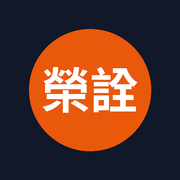
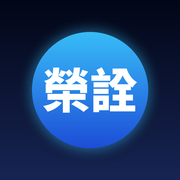
換配色、連新資料庫

diff --git a/style.css b/style.css
@@ -5,8 +5,8 @@
   --text: #1f2937;
   --muted: #6b7280;
   --border: #e5e7eb;
-  --accent: #ea580c;
-  --accent-dark: #c2410c;
+  --accent: #2563eb;
+  --accent-dark: #1d4ed8;
   --dark: #111827;
   --radius: 12px;
 }
@@ -266,8 +266,8 @@ details.owner-edit .form-grid { margin-top: 10px; }
   --text: #111827;        /* 主要文字：接近黑色 */
   --muted: #374151;       /* 次要文字：從淺灰改成深灰 */
   --border: #d1d5db;      /* 分隔線加深 */
-  --accent: #c2410c;      /* 橘色加深，按鈕上的白字更清楚 */
-  --accent-dark: #9a3412;
+  --accent: #1d4ed8;      /* 老闆版：電光藍，白字一樣清楚 */
+  --accent-dark: #1e3a8a;
 }
 body { font-size: 16px; }
 
@@ -295,7 +295,7 @@ input::placeholder { color: #6b7280; }
 
 /* 上方標題列和預留區 */
 .user { color: #f3f4f6; }
-.topbar .brand span { color: #fb923c; }   /* 深色底上用亮一點的橘 */
+.topbar .brand span { color: #38bdf8; }   /* 老闆版：深色底上的亮藍 */
 .placeholder { color: #4b5563; border-color: #9ca3af; }
 
 /* 左上角店名：按了回到主頁面 */
@@ -304,7 +304,7 @@ a.brand:hover { opacity: 0.85; }
 
 /* ===== 車輛總覽：可以點的統計格、明細 ===== */
 .stat.clickable { cursor: pointer; transition: border-color 0.15s, background 0.15s; }
-.stat.clickable:hover { border-color: var(--accent); background: #fff7ed; }
+.stat.clickable:hover { border-color: var(--accent); background: #eff6ff; }
 label.inline { flex-direction: row; align-items: center; gap: 8px; }
 label.inline input { width: auto; }
 #revenueSection, #orderSection, #bikeSection { scroll-margin-top: 16px; }
@@ -380,7 +380,7 @@ body.busy .btn, body.busy .btn-small { opacity: 0.6; pointer-events: none; }   /
   --shadow-sm: 0 1px 2px rgba(15, 23, 42, 0.06), 0 1px 3px rgba(15, 23, 42, 0.10);
   --shadow-md: 0 4px 12px rgba(15, 23, 42, 0.08), 0 2px 4px rgba(15, 23, 42, 0.06);
   --shadow-lg: 0 20px 40px rgba(15, 23, 42, 0.18);
-  --ring: 0 0 0 3px rgba(194, 65, 12, 0.28);
+  --ring: 0 0 0 3px rgba(29, 78, 216, 0.28);
   --ease: cubic-bezier(0.2, 0.8, 0.2, 1);
   --radius: 14px;
 }
@@ -391,7 +391,7 @@ body {
   -webkit-font-smoothing: antialiased;
   letter-spacing: 0.01em;
   background:
-    radial-gradient(1200px 400px at 50% -200px, rgba(234, 88, 12, 0.07), transparent),
+    radial-gradient(1200px 400px at 50% -200px, rgba(37, 99, 235, 0.07), transparent),
     var(--bg);
   min-height: 100vh;
 }
@@ -443,13 +443,13 @@ button { transition: background 0.18s, color 0.18s, box-shadow 0.18s, transform 
 button:active { transform: scale(0.97); }
 button:focus-visible, a:focus-visible, summary:focus-visible { outline: none; box-shadow: var(--ring); }
 .btn {
-  background: linear-gradient(180deg, #d9480f, var(--accent));
+  background: linear-gradient(180deg, #2563eb, var(--accent));
   box-shadow: 0 1px 2px rgba(0, 0, 0, 0.15), inset 0 1px 0 rgba(255, 255, 255, 0.15);
   border-radius: 10px;
   padding: 11px 20px;
   letter-spacing: 0.04em;
 }
-.btn:hover { background: linear-gradient(180deg, #c2410c, var(--accent-dark)); box-shadow: 0 4px 12px rgba(194, 65, 12, 0.35); transform: translateY(-1px); }
+.btn:hover { background: linear-gradient(180deg, #1d4ed8, var(--accent-dark)); box-shadow: 0 4px 12px rgba(29, 78, 216, 0.35); transform: translateY(-1px); }
 .btn:active { transform: translateY(0) scale(0.98); }
 .btn-small { border-radius: 8px; padding: 7px 14px; box-shadow: 0 1px 2px rgba(0, 0, 0, 0.12); }
 .btn-small:hover { background: #374151; }
@@ -473,7 +473,7 @@ input:focus, select:focus { outline: none; border-color: var(--accent); box-shad
   transition: transform 0.2s var(--ease), box-shadow 0.2s, border-color 0.2s;
 }
 .stat .num { font-weight: 900; letter-spacing: -0.01em; }
-.stat.clickable:hover { transform: translateY(-2px); box-shadow: var(--shadow-md); background: #fff7ed; }
+.stat.clickable:hover { transform: translateY(-2px); box-shadow: var(--shadow-md); background: #eff6ff; }
 
 /* ----- 清單：滑過有底色 ----- */
 .list li { transition: background 0.15s; border-radius: 8px; }
@@ -561,8 +561,8 @@ body.hide-money .money-shape { opacity: 0.35; }
 .legend { display: flex; gap: 14px; font-size: 14px; color: #374151; }
 .legend span { display: inline-flex; align-items: center; gap: 6px; }
 .sw { display: inline-block; width: 14px; height: 10px; border-radius: 3px; }
-.sw-bar { background: #c2410c; }
-.sw-line { background: #1d4ed8; height: 3px; border-radius: 2px; }
+.sw-bar { background: #1d4ed8; }
+.sw-line { background: #0d9488; height: 3px; border-radius: 2px; }
 .three-col { display: grid; grid-template-columns: repeat(auto-fit, minmax(260px, 1fr)); gap: 16px; margin-bottom: 16px; }
 .three-col .card { margin-bottom: 0; }
 
@@ -590,8 +590,8 @@ body.hide-money .money-shape { opacity: 0.35; }
 .hbar-label { font-weight: 600; overflow: hidden; text-overflow: ellipsis; white-space: nowrap; }
 .hbar-val { color: #374151; white-space: nowrap; font-variant-numeric: tabular-nums; }
 .hbar-track { height: 10px; background: #f3f4f6; border-radius: 999px; overflow: hidden; }
-.hbar-fill { height: 100%; width: var(--w); border-radius: 999px; background: linear-gradient(90deg, #fb923c, #c2410c); animation: grow-x 0.8s var(--ease) both; animation-delay: calc(var(--i) * 40ms + 100ms); transform-origin: left; }
-.hbar:first-child .hbar-fill { background: linear-gradient(90deg, #ea580c, #9a3412); }
+.hbar-fill { height: 100%; width: var(--w); border-radius: 999px; background: linear-gradient(90deg, #60a5fa, #1d4ed8); animation: grow-x 0.8s var(--ease) both; animation-delay: calc(var(--i) * 40ms + 100ms); transform-origin: left; }
+.hbar:first-child .hbar-fill { background: linear-gradient(90deg, #2563eb, #1e3a8a); }
 @keyframes grow-x { from { transform: scaleX(0); } to { transform: scaleX(1); } }
 
 /* 甜甜圈 */
@@ -623,7 +623,7 @@ body.hide-money .money-shape { opacity: 0.35; }
 .an-table .r { text-align: right; font-variant-numeric: tabular-nums; }
 .an-table .muted { color: #6b7280; }
 .an-table tbody tr { cursor: pointer; transition: background 0.15s; animation: fade 0.35s ease both; animation-delay: calc(var(--i) * 30ms); }
-.an-table tbody tr:hover { background: #fff7ed; }
+.an-table tbody tr:hover { background: #eff6ff; }
 .an-table .plate { font-size: 13px; padding: 1px 6px; }
 .an-table td.empty { color: #4b5563; text-align: center; cursor: default; }
 .empty { color: #4b5563; }
@@ -659,7 +659,7 @@ body.hide-money .money-shape { opacity: 0.35; }
 .visit-day { margin: 18px 0 4px; font-size: 15px; color: #1f2937; position: sticky; top: -20px; background: #fff; padding: 6px 0; z-index: 1; }
 .visit-list li { align-items: center; }
 .clickable-row { cursor: pointer; }
-@media (hover: hover) { .clickable-row:hover { background: #fff7ed !important; } }
+@media (hover: hover) { .clickable-row:hover { background: #eff6ff !important; } }
 .visit-phone { text-decoration: underline dotted; text-underline-offset: 3px; }
 .log-type { width: auto; padding: 6px 10px; font-size: 14px; }
 .log-diff { font-size: 14px; color: #1f2937; background: #f3f4f6; border-radius: 6px; padding: 3px 8px; margin: 3px 0; display: inline-block; }
@@ -686,3 +686,23 @@ textarea:focus { outline: none; border-color: var(--accent); box-shadow: var(--r
 .btn.btn-line { background: #06c755; }
 .btn.btn-line:hover { background: #05a647; box-shadow: 0 4px 12px rgba(6, 199, 85, 0.35); }
 #mergeList li .main { font-size: 15px; }
+
+
+/* =====================================================================
+   ===== 老闆版配色：碳黑 × 電光藍（跟學習版的橘色分開） =====
+   ===================================================================== */
+.topbar {
+  background: linear-gradient(120deg, #020617 0%, #0b1120 55%, #172554 100%);
+  border-bottom: 2px solid #2563eb;
+  box-shadow: 0 2px 18px rgba(37, 99, 235, 0.35);
+}
+.brand { letter-spacing: 0.1em; }
+.topbar .btn-ghost { border-color: rgba(147, 197, 253, 0.35); }
+.topbar .btn-ghost:hover { background: rgba(59, 130, 246, 0.18); border-color: #60a5fa; }
+.topbar .btn-ghost.active { background: #2563eb; color: #fff; border-color: #60a5fa; box-shadow: 0 0 12px rgba(56, 189, 248, 0.45); }
+.card h2::before { background: linear-gradient(180deg, #38bdf8, #1d4ed8); width: 5px; }
+.btn { background: linear-gradient(180deg, #2563eb, #1d4ed8); }
+.btn:hover { background: linear-gradient(180deg, #1d4ed8, #1e3a8a); }
+.stat .num, .kpi-value { color: #0b1120; }
+.chips button.active { background: #0b1120; }
+.login-box { border-top: 4px solid #2563eb; }

diff --git a/analytics.html b/analytics.html
@@ -5,7 +5,7 @@
   <meta name="viewport" content="width=device-width, initial-scale=1.0">
   <title>數據分析 - 竹北榮詮管理系統</title>
   <link rel="manifest" href="manifest.json">
-  <meta name="theme-color" content="#111827">
+  <meta name="theme-color" content="#0b1120">
   <link rel="icon" href="icon-192.png">
   <link rel="apple-touch-icon" href="icon-180.png">
   <link rel="preconnect" href="https://fonts.googleapis.com">
@@ -159,7 +159,7 @@
     let period = "30d";
 
     const C = {                   // 圖表顏色
-      bar: "#c2410c", barSoft: "#fdba74", line: "#1d4ed8",
+      bar: "#1d4ed8", barSoft: "#93c5fd", line: "#0d9488",
       todo: "#dc2626", doing: "#d97706", done: "#16a34a",
       gray: "#9ca3af", grid: "#e5e7eb", axis: "#374151"
     };

diff --git a/bikes.html b/bikes.html
@@ -5,7 +5,7 @@
   <meta name="viewport" content="width=device-width, initial-scale=1.0">
   <title>車輛總覽 - 竹北榮詮管理系統</title>
   <link rel="manifest" href="manifest.json">
-  <meta name="theme-color" content="#111827">
+  <meta name="theme-color" content="#0b1120">
   <link rel="icon" href="icon-192.png">
   <link rel="apple-touch-icon" href="icon-180.png">
   <link rel="preconnect" href="https://fonts.googleapis.com">

diff --git a/customers.html b/customers.html
@@ -5,7 +5,7 @@
   <meta name="viewport" content="width=device-width, initial-scale=1.0">
   <title>客戶查詢 - 竹北榮詮管理系統</title>
   <link rel="manifest" href="manifest.json">
-  <meta name="theme-color" content="#111827">
+  <meta name="theme-color" content="#0b1120">
   <link rel="icon" href="icon-192.png">
   <link rel="apple-touch-icon" href="icon-180.png">
   <link rel="preconnect" href="https://fonts.googleapis.com">

diff --git a/import.html b/import.html
@@ -5,7 +5,7 @@
   <meta name="viewport" content="width=device-width, initial-scale=1.0">
   <title>匯入 Excel - 竹北榮詮管理系統</title>
   <link rel="manifest" href="manifest.json">
-  <meta name="theme-color" content="#111827">
+  <meta name="theme-color" content="#0b1120">
   <link rel="icon" href="icon-192.png">
   <link rel="apple-touch-icon" href="icon-180.png">
   <link rel="preconnect" href="https://fonts.googleapis.com">

diff --git a/index.html b/index.html
@@ -5,7 +5,7 @@
   <meta name="viewport" content="width=device-width, initial-scale=1.0">
   <title>竹北榮詮管理系統 - 登入</title>
   <link rel="manifest" href="manifest.json">
-  <meta name="theme-color" content="#111827">
+  <meta name="theme-color" content="#0b1120">
   <link rel="icon" href="icon-192.png">
   <link rel="apple-touch-icon" href="icon-180.png">
   <link rel="preconnect" href="https://fonts.googleapis.com">

diff --git a/app.html b/app.html
@@ -5,7 +5,7 @@
   <meta name="viewport" content="width=device-width, initial-scale=1.0">
   <title>竹北榮詮管理系統</title>
   <link rel="manifest" href="manifest.json">
-  <meta name="theme-color" content="#111827">
+  <meta name="theme-color" content="#0b1120">
   <link rel="icon" href="icon-192.png">
   <link rel="apple-touch-icon" href="icon-180.png">
   <link rel="preconnect" href="https://fonts.googleapis.com">

diff --git a/config.js b/config.js
@@ -1,5 +1,5 @@
-const SUPABASE_URL = "https://uqcjyralyukkdawzgbrc.supabase.co";
-const SUPABASE_KEY = "sb_publishable_AbtXZ2lhjEqe-32_MKUhvg_Woyf3v1h";
+const SUPABASE_URL = "https://kqkezlofptqgybevuehf.supabase.co";   // 老闆版專用的資料庫
+const SUPABASE_KEY = "sb_publishable_t5CB75GK5SDeZq4Jhkb-WQ_-1CfodVX";
 const db = supabase.createClient(SUPABASE_URL, SUPABASE_KEY);
 
 
